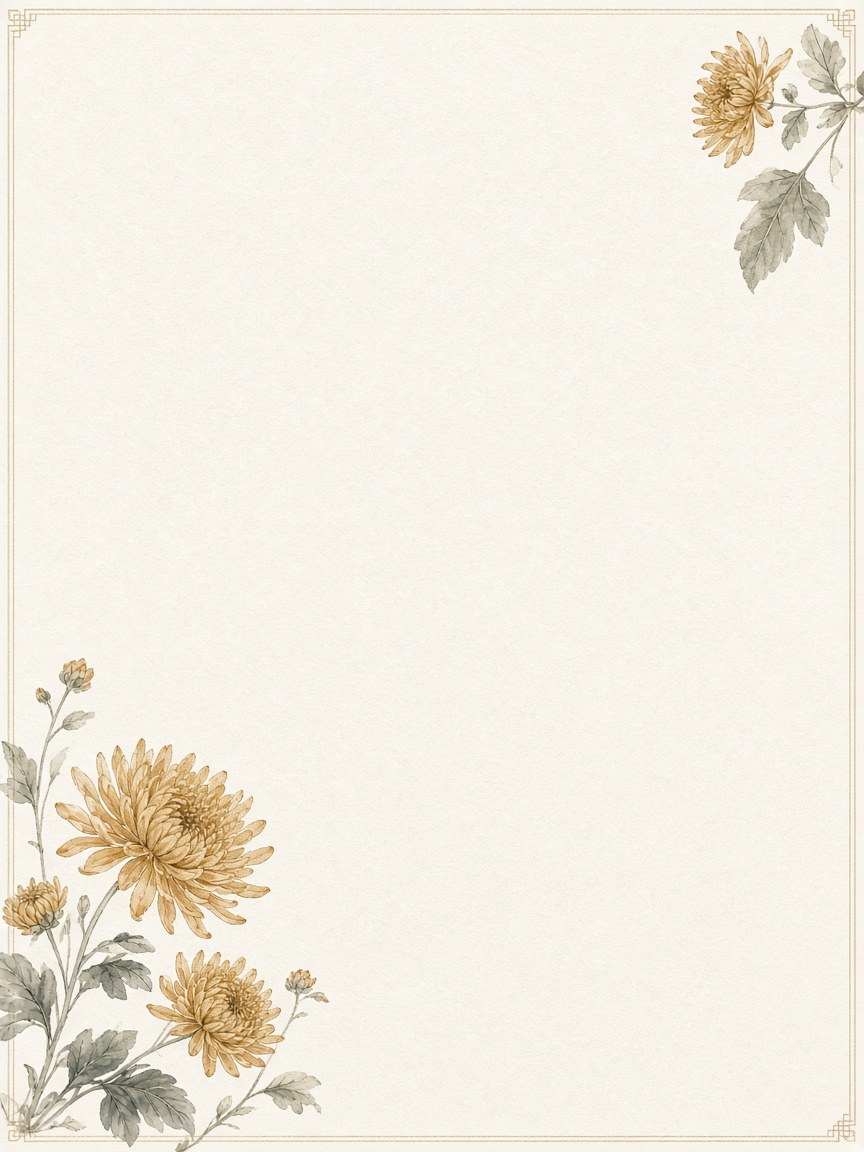
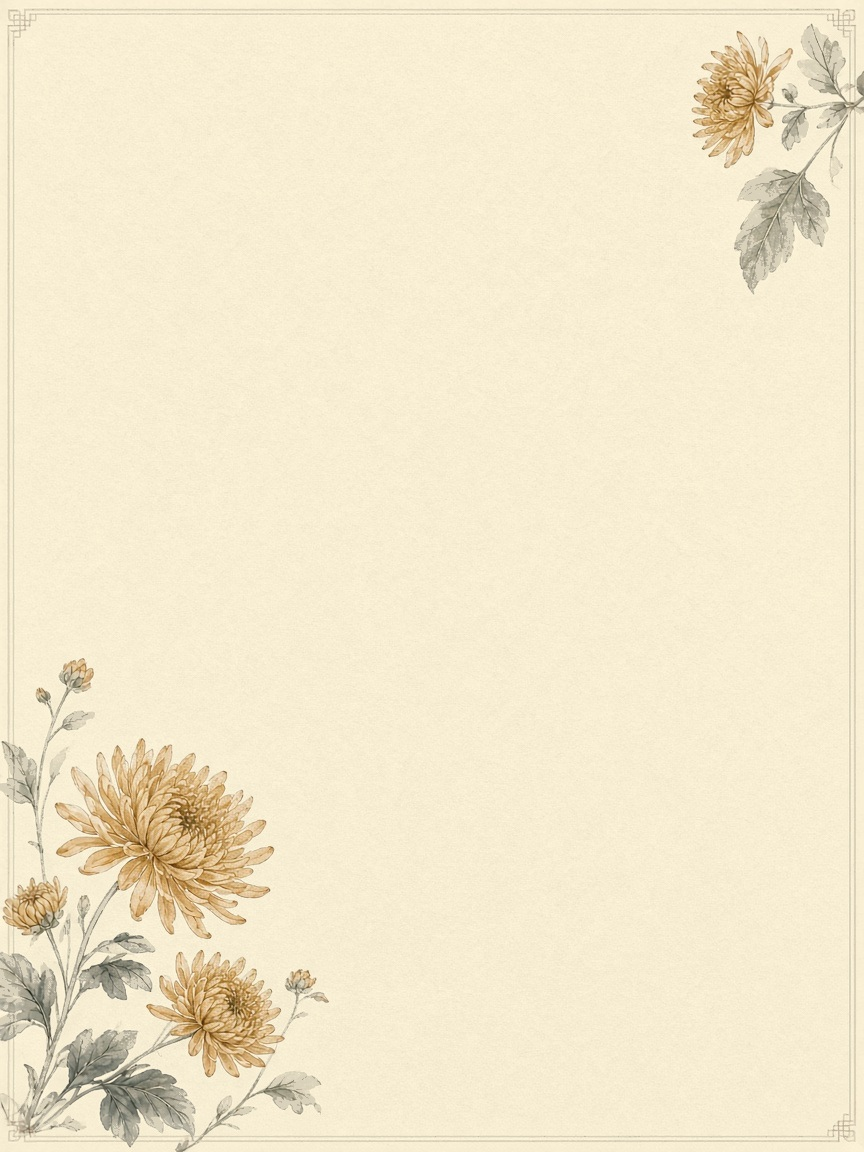
微調梅蘭菊牡丹的紙色，竹子維持原本的綠調。

Changed region(s): [[0.0, 0.0, 1.0, 1.0], [0.0625, 0.9375, 0.125, 1.0], [0.0, 0.9688, 0.0625, 1.0]]

diff --git a/copybook/app.js b/copybook/app.js
@@ -49,11 +49,11 @@
     var STROKE_CELLS_PER_LINE = 12;
     var BRUSH_FONT_STACK = "'YShiPenShutiTC', 'Kaiti TC', 'STKaiti', 'KaiTi', serif";
     var PHOTO_BGS = {
-        plum: 'backgrounds/\u6885\u82b1.jpg',
-        orchid: 'backgrounds/\u862d\u82b1.jpg',
-        bamboo: 'backgrounds/\u7af9\u5b50.jpg',
-        chrysanthemum: 'backgrounds/\u83ca\u82b1.jpg',
-        peony: 'backgrounds/\u7261\u4e39.jpg'
+        plum: 'backgrounds/\u6885\u82b1.jpg?v=2',
+        orchid: 'backgrounds/\u862d\u82b1.jpg?v=2',
+        bamboo: 'backgrounds/\u7af9\u5b50.jpg?v=2',
+        chrysanthemum: 'backgrounds/\u83ca\u82b1.jpg?v=2',
+        peony: 'backgrounds/\u7261\u4e39.jpg?v=2'
     };
     var preview = document.getElementById('preview');
     var btnPdf = document.getElementById('btnPdf');

diff --git a/copybook/index.html b/copybook/index.html
@@ -211,6 +211,6 @@
         </div>
     </div>
 
-    <script src="app.js?v=65"></script>
+    <script src="app.js?v=66"></script>
 </body>
 </html>
